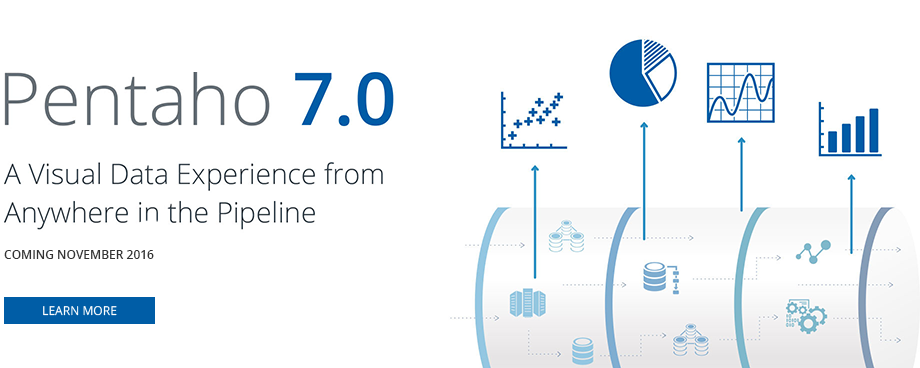
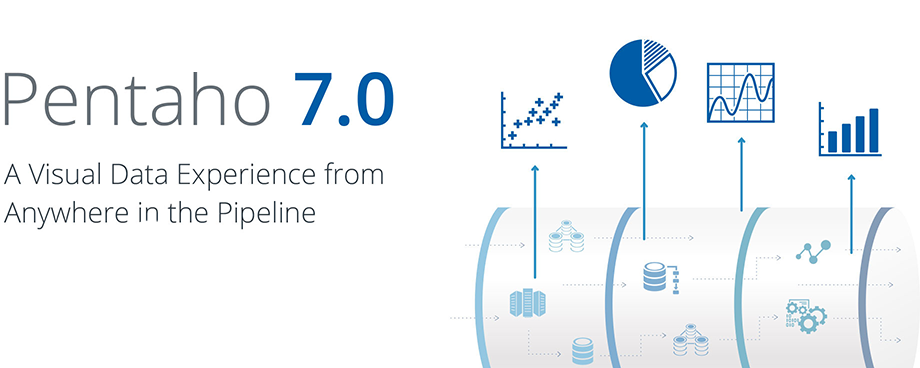
- updated main features info - removed pcm 2016 mentions

Changed region(s): [[0.0, 0.8071, 0.1826, 0.8967], [0.0, 0.6576, 0.1826, 0.7174]]

diff --git a/index.html b/index.html
@@ -36,28 +36,6 @@
       <div id="owl" class="owl-carousel community-slide">
         <!-- Wrapper for slides -->
 
-        <div class="item community-slide">
-          <div class="row">
-            <div class="col-xs-12 col-sm-6 col-md-6 right-side-slide hidden-desktop">
-              <div class="text-center">
-                <img src="img/PentahoCommunityUserGroups_pcm2016.png" alt="" style="max-height: 315px;">
-              </div>
-            </div>
-            <div class="col-xs-12 col-sm-6 col-md-6 left-side-slide">
-              <h1>Community Meeting</h1>
-              <p class="pcm2016">Join us at the next PCM event in Antwerp, Belgium. <br class="hidden-xs"> Nov 11-13, 2016.</p>
-              <a class="" href="https://www.eventbrite.com/e/pcm16-tickets-26473010487?aff=es2" target="_blank" style="min-width: 0;">
-                <span class="btn btn-default btn-header">Register</span>
-              </a>
-            </div>
-            <div class="col-xs-12 col-sm-6 col-md-6 right-side-slide hidden-mobile">
-              <div class="text-right">
-                <img src="img/PentahoCommunityUserGroups_pcm2016.png" alt="" style="max-height: 315px;">
-              </div>
-            </div>
-          </div>
-        </div>
-
         <div class="item active community-slide">
           
           <div class="row">
@@ -68,7 +46,7 @@
               </div>
             </div>
             <div class="col-xs-12 col-sm-6 col-md-6 left-side-slide">
-              <h1 style="letter-spacing: -0.03em;">Pentaho Community Edition 6.1</h1>
+              <h1 style="letter-spacing: -0.03em;">Pentaho Community Edition 7.0</h1>
               <p>Accelerate your analytic pipeline with faster data onboarding.</p>
               <a class="hidden-mobile">
                 <span class="btn btn-default btn-header" id="buttonDownloadCE">Download Section</span>
@@ -207,22 +185,26 @@
                       <div class="row">
                         <div class="col-md-7 col-sm-7">
                           <br>
-                          <ul>
-                            <li>
-                              <strong>Data Services: </strong>Ability to expose any point of a transformation as a virtual table that can be accessed from the outside through a JDBC interface - and this usage can be not only external but also internal. This feature
-                              comes with huge improvements on the concept, not only at a UI level, but also on global Caching abilities and Push Down Optimizations. </li>
-                            <li>
-                              <strong>PDI usability: </strong>You'll notice the difference in the execute transformation / job dialog.</li>
-                            <li>
-                              <strong>PDI step improvements: </strong>We were able to make the JSON step way faster.</li>
-                            <li>
-                              <strong>Official CTools documentation: </strong>We already supported Ctools, now it's part of the official <a href="https://help.pentaho.com/Documentation/7.0/0R0/CTools" target="_blank">documentation.</a></li>
-                            <li>
-                              <strong>Metadata Injection: </strong>Gives you the ability to modify transformations at execution time by refering to the dynamic passing of metadata to PDI transformations at run time. The metadata can be injected on the fly into a transformation template.</li>
-                            <li>
-                              <strong>Enable community testing of new platform infrastructure.</strong></li>
-                            
-                          </ul>
+                            <ul>
+                              <li>
+                                <strong>Data Services: </strong>Ability to expose any point of a transformation as a virtual table that can be accessed from the outside through a JDBC interface - and this usage can be not only external but also internal. This
+                                feature comes with huge improvements on the concept, not only at a UI level, but also on global Caching abilities and Push Down Optimizations. </li>
+                              <li>
+                                <strong>PDI usability: </strong>You'll notice the difference in the execute transformation / job dialog.</li>
+                              <li>
+                                <strong>SQL on Spark: </strong>PDI is now enabled to connect to data with SQL on Spark.</li>
+                              <li>
+                                <strong>Metadata Injection: </strong>Gives you the ability to modify transformations at execution time by refering to the dynamic passing of metadata to PDI transformations at run time. The metadata can be injected on the fly into a transformation template.</li>
+                              
+                              <li>
+                                <strong>Reporting: </strong>You can now run reports in background and get report pages as soon as they are ready.
+                              </li>
+                              <li>
+                                <strong>Enable community testing of new platform infrastructure.</strong>
+                              </li>
+                              <li>  
+                                <strong>Official CTools documentation: </strong>We already supported Ctools, now it's part of the official <a href="https://help.pentaho.com/Documentation/7.0/0R0/CTools" target="_blank">documentation.</a></li>
+                            </ul>
                         </div>
                         <div class="col-md-4  col-md-offset-1 col-sm-4  col-sm-offset-1">
                           <div class="row">
@@ -417,14 +399,18 @@
                               <li>
                                 <strong>PDI usability: </strong>You'll notice the difference in the execute transformation / job dialog.</li>
                               <li>
-                                <strong>PDI step improvements: </strong>We were able to make the JSON step way faster.</li>
-                              <li>  
-                                <strong>Official CTools documentation: </strong>We already supported Ctools, now it's part of the official <a href="https://help.pentaho.com/Documentation/7.0/0R0/CTools" target="_blank">documentation.</a></li>
+                                <strong>SQL on Spark: </strong>PDI is now enabled to connect to data with SQL on Spark.</li>
                               <li>
                                 <strong>Metadata Injection: </strong>Gives you the ability to modify transformations at execution time by refering to the dynamic passing of metadata to PDI transformations at run time. The metadata can be injected on the fly into a transformation template.</li>
-                              <li>
-                                <strong>Enable community testing of new platform infrastructure.</strong> </li>
                               
+                              <li>
+                                <strong>Reporting: </strong>You can now run reports in background and get report pages as soon as they are ready.
+                              </li>
+                              <li>
+                                <strong>Enable community testing of new platform infrastructure.</strong>
+                              </li>
+                              <li>  
+                                <strong>Official CTools documentation: </strong>We already supported Ctools, now it's part of the official <a href="https://help.pentaho.com/Documentation/7.0/0R0/CTools" target="_blank">documentation.</a></li>
                             </ul>
                           </div>
                           <div class="col-md-4  col-md-offset-1 col-sm-4  col-sm-offset-1">

diff --git a/user-groups/index.html b/user-groups/index.html
@@ -37,10 +37,10 @@
     <div class="wrapper-header-bg">
       <div class="wrapper-with-margin">
         <div id="owl" class="owl-carousel community-slide">
-            <div class="item community-slide active">
+<!--             <div class="item community-slide active">
               <div class="  ">
                 <div class="site-container cbp-so-section" id="containerHeader" style="margin-top: 0; margin-bottom: 0;">
-                  <!-- Example row of columns -->
+                  
                   <div class="row">
                     <div class="col-sm-6 cbp-so-side cbp-so-side-right hidden-desktop">
                       <div class="text-center">
@@ -64,7 +64,7 @@
                   </div>
                 </div>
               </div>
-            </div>
+            </div> -->
 
             <div class="item community-slide active">
               <div class="  ">

diff --git a/projects/data-integration/index.html b/projects/data-integration/index.html
@@ -78,7 +78,7 @@
                         <img src="../../img/pdi-screen2.png" alt="">
                         <img src="../../img/pdi-screen3.png" alt="">
                         <img src="../../img/pdi-screen4.png" alt="">
-                        <img src="../../img/pdi-screen5.png" alt="">
+                        <!-- <img src="../../img/pdi-screen5.png" alt=""> -->
                       </div>
                     </div>
                     <div class="col-md-4  col-md-offset-1 col-sm-4  col-sm-offset-1">
